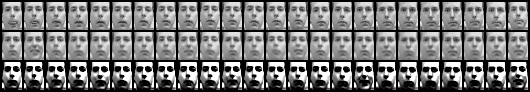
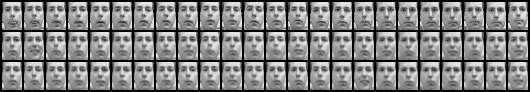
freyface

Changed region(s): [[0.0, 0.6739, 0.9962, 0.9783]]

diff --git a/visualize_freyface_vae_mvae.py b/visualize_freyface_vae_mvae.py
@@ -253,14 +253,11 @@ def main():
 
     # Load models
     VAE, MVAE = _try_import_models()
-    vae = VAE(input_size=560, hidden_size=500, latent_size=args.latent_size, data_type="real").to(device)
-    mvae = MVAE(input_size=560, hidden_size=500, latent_size=args.latent_size, data_type="real").to(device) if MVAE is not None else None
+    vae = VAE(input_size=560, hidden_size=500, latent_size=args.latent_size).to(device)
+    mvae = MVAE(input_size=560, hidden_size=500, latent_size=args.latent_size).to(device) if MVAE is not None else None
 
     vae.load_state_dict(torch.load(args.weights_vae, map_location=device), strict=True)
-    if mvae is not None:
-        mvae.load_state_dict(torch.load(args.weights_mvae, map_location=device), strict=True)
-    else:
-        raise RuntimeError("MVAE class not found in models. Please ensure models.MVAE exists.")
+    mvae.load_state_dict(torch.load(args.weights_mvae, map_location=device), strict=True)
 
     vae.eval(); mvae.eval()
 
